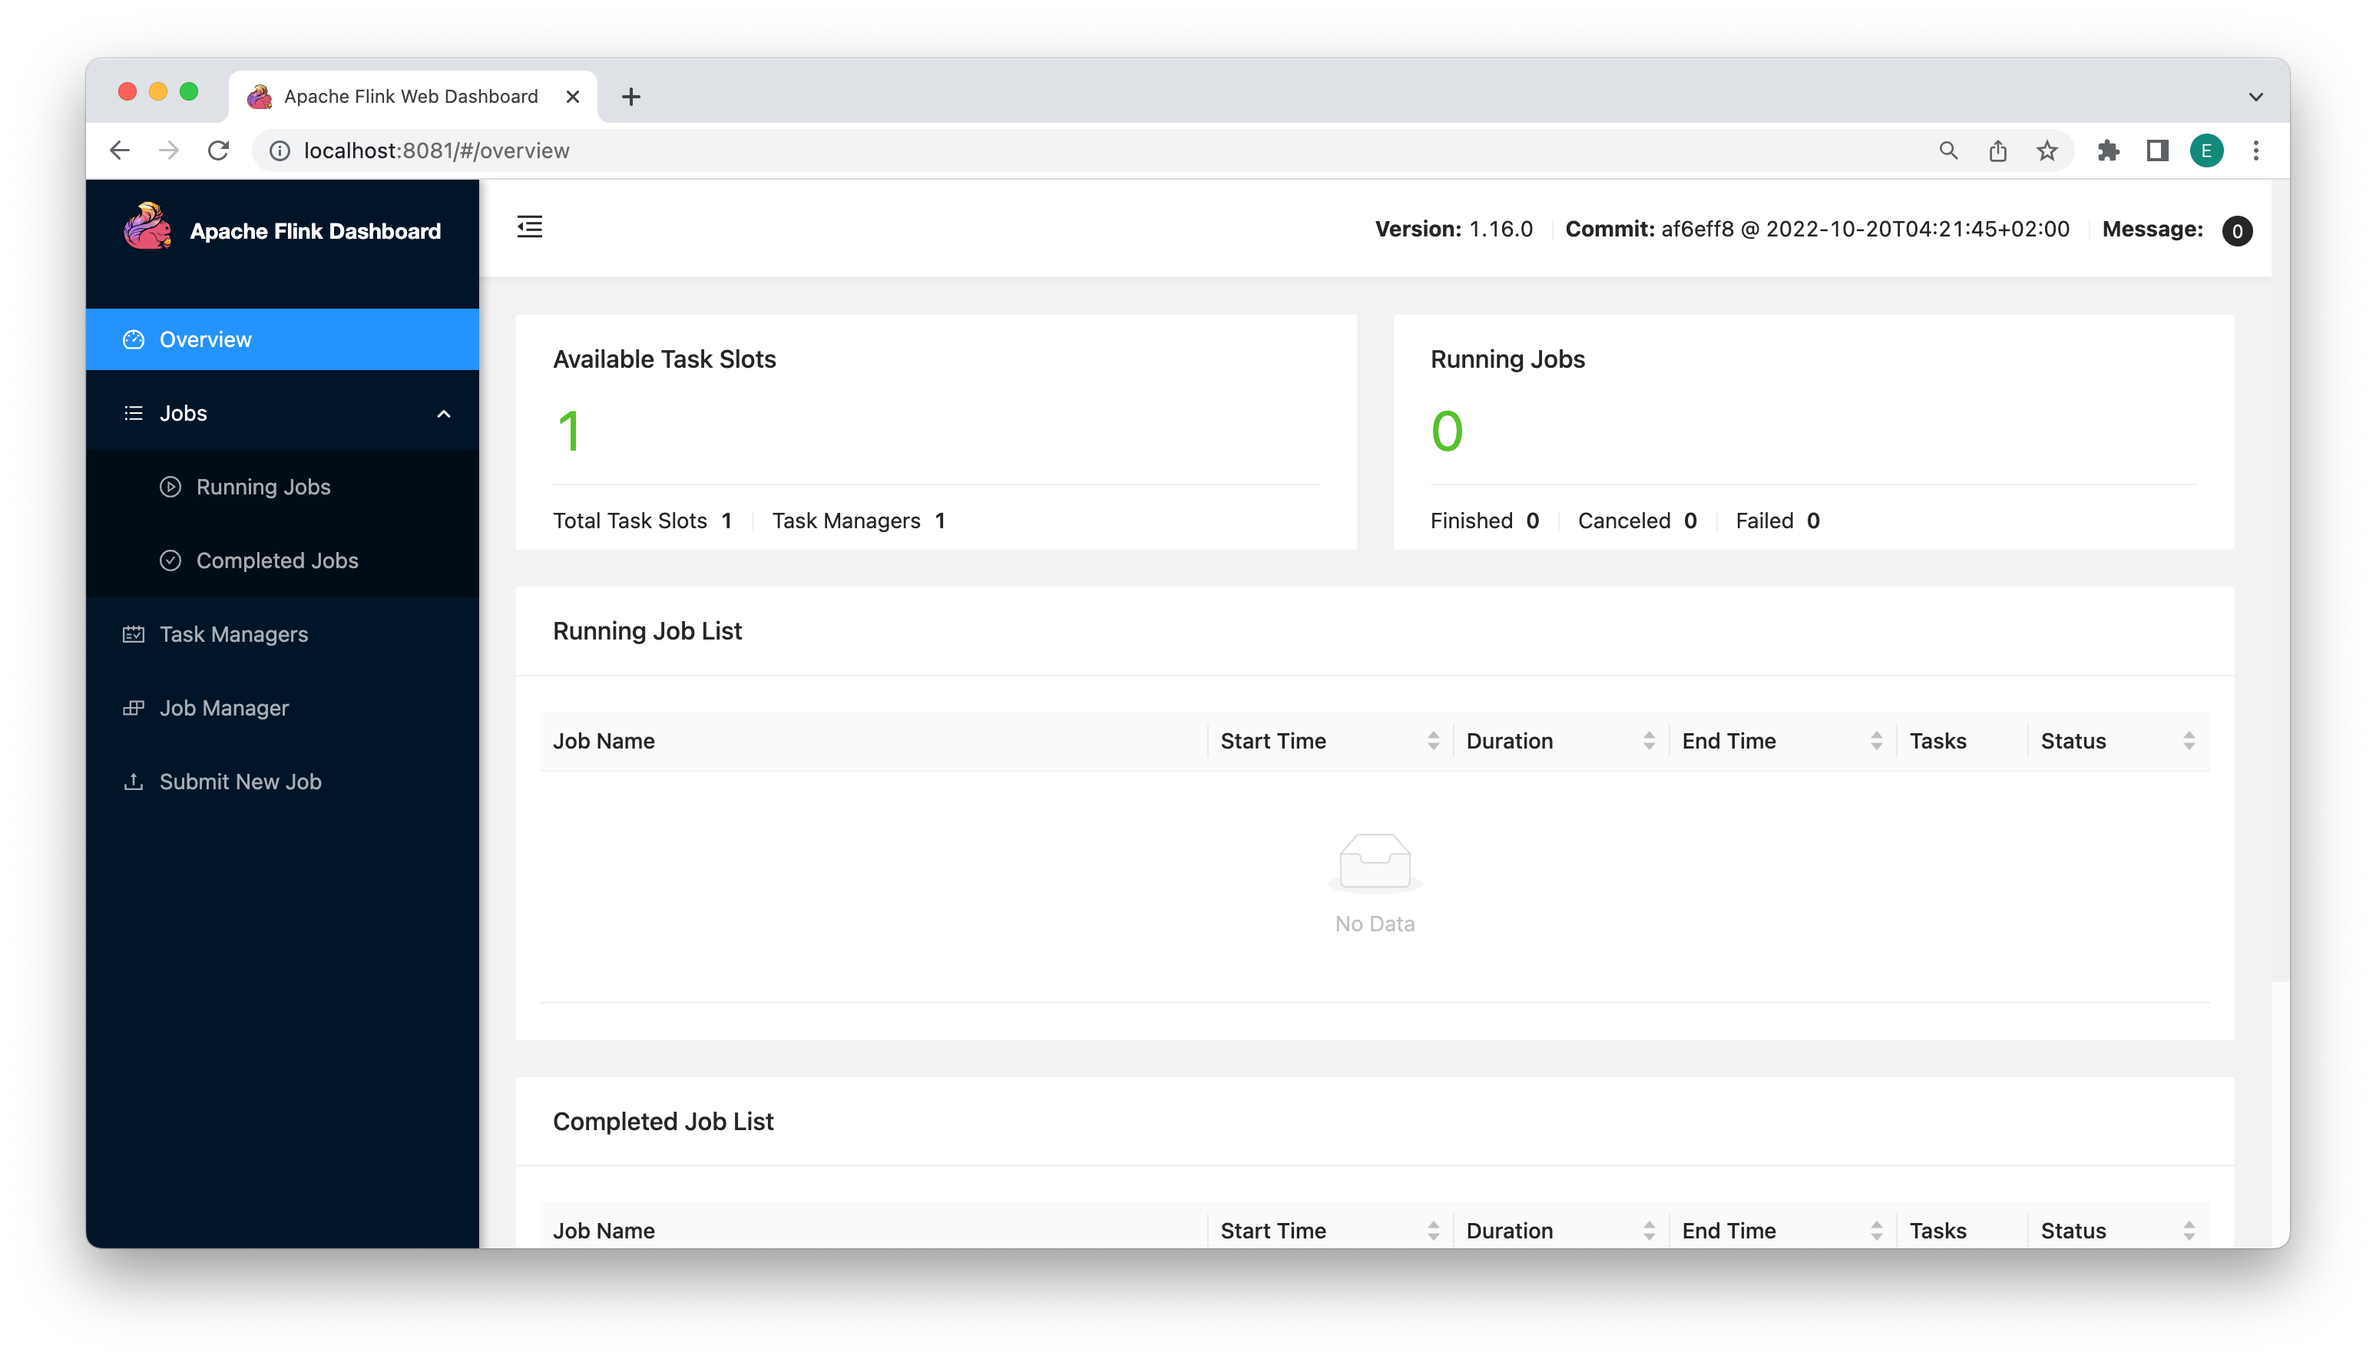
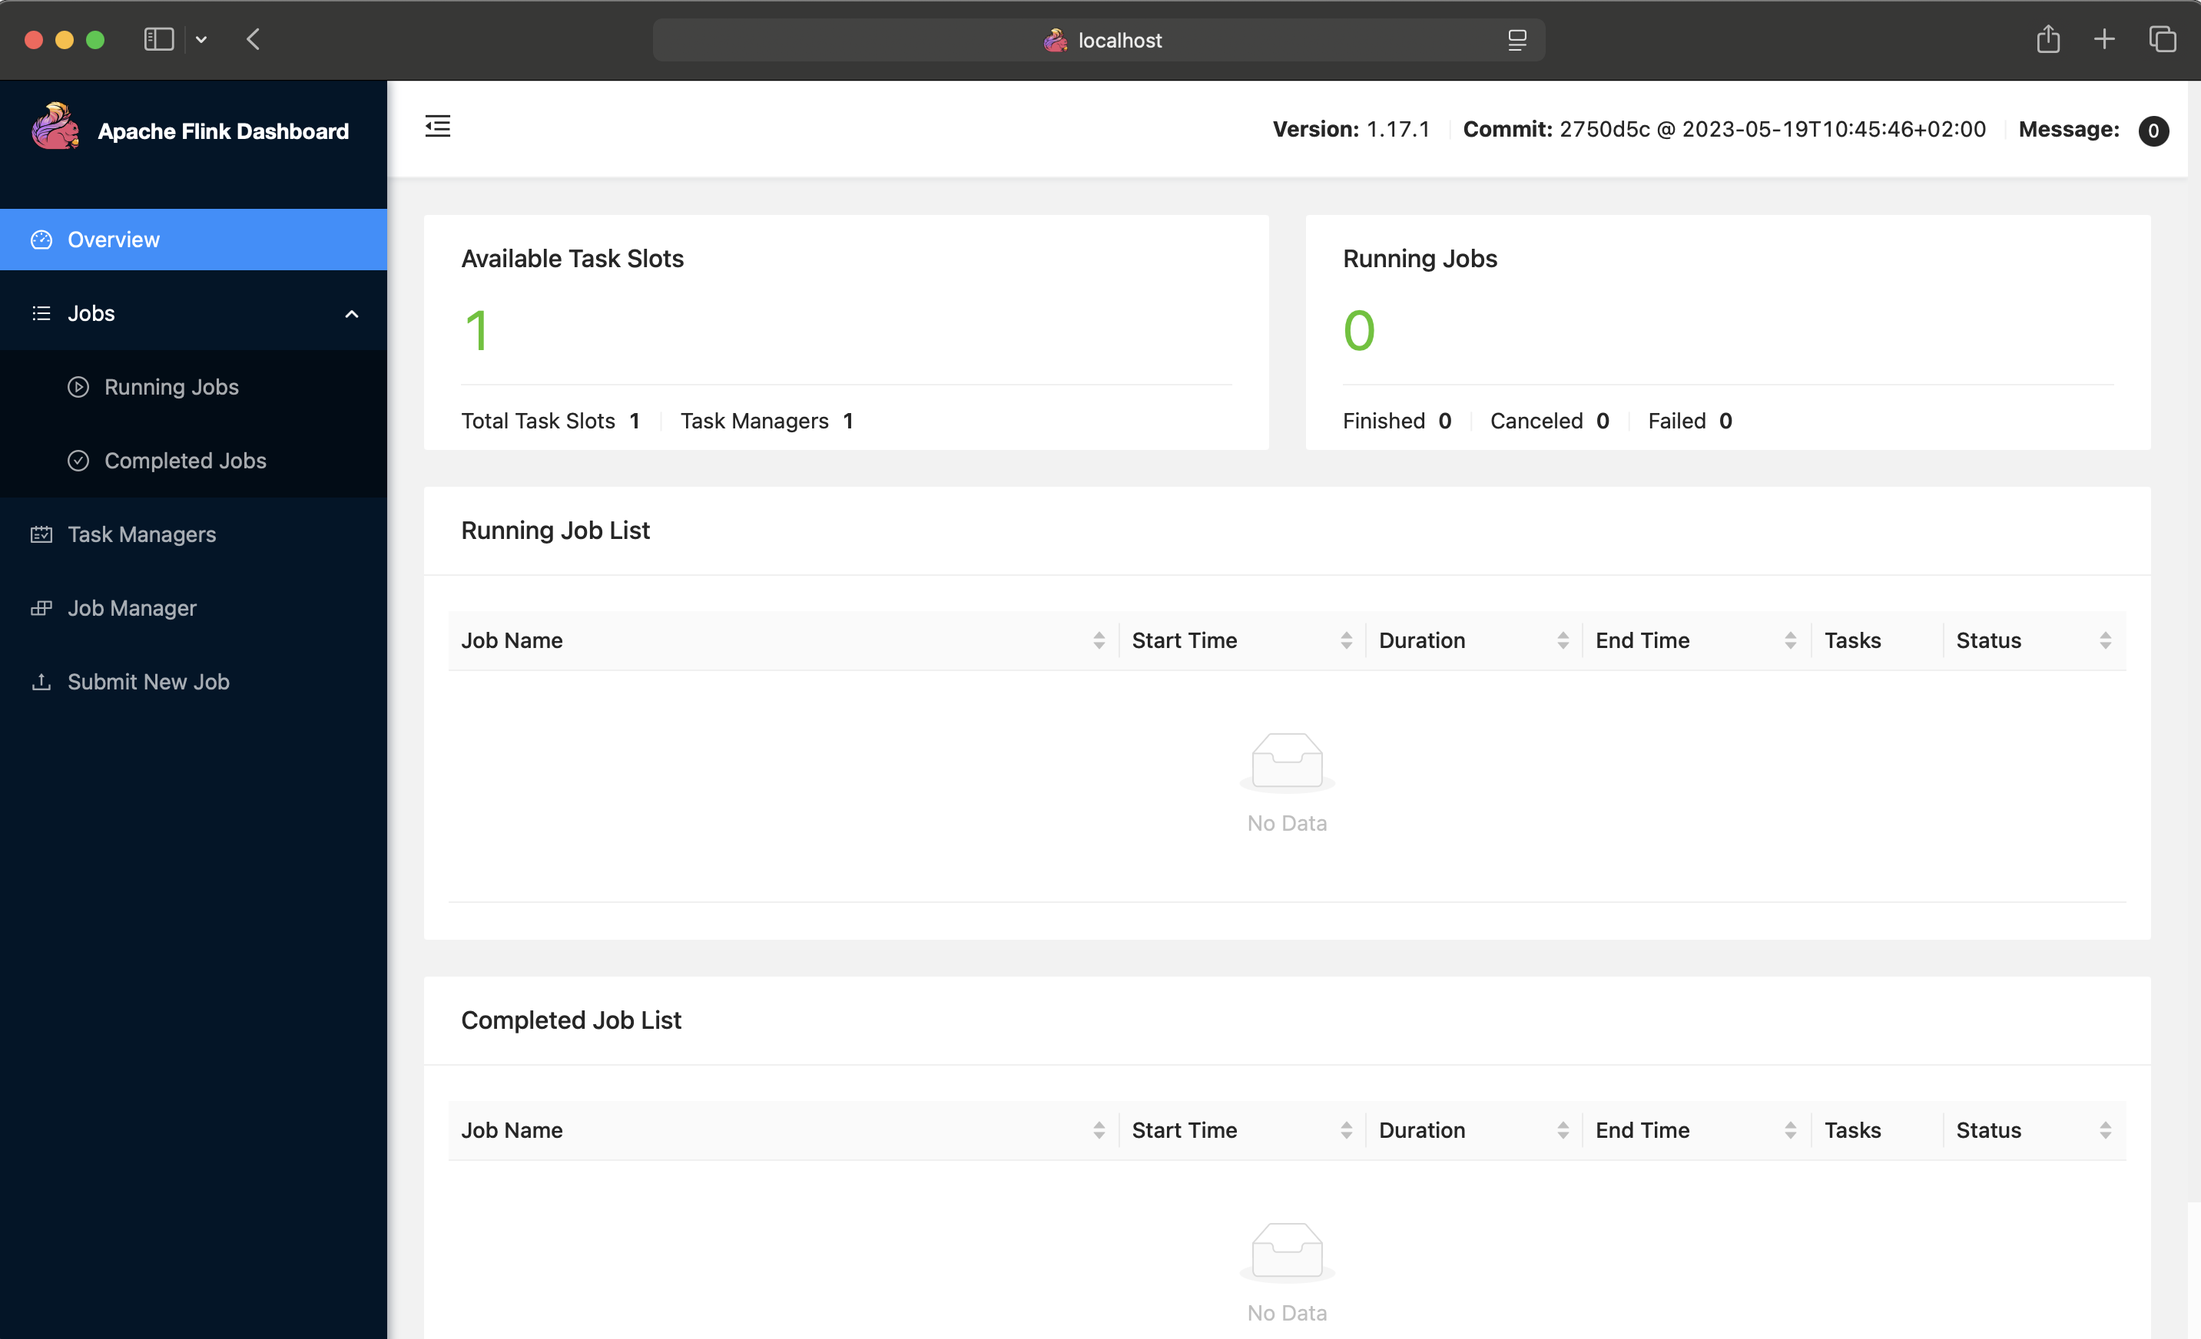
Migrating from MySQL with Flink CDC

diff --git a/docs/en/tutorials/migrate/migrating-from-mysql-with-flink-cdc.md b/docs/en/tutorials/migrate/migrating-from-mysql-with-flink-cdc.md
@@ -2,15 +2,99 @@
 title: Migrating from MySQL with Flink CDC
 ---
 
-In this tutorial, you will set up a real-time data loading from MySQL to Databend with the Flink SQL connector for Databend. Before you start, make sure you have successfully set up Databend and MySQL in your environment.
+In this tutorial, we'll walk you through the process of migrating from MySQL to Databend Cloud using Apache Flink CDC.
 
-1. Create a table in MySQL and populate it with sample data. Then, create a corresponding target table in Databend.
+## Before You Start
 
-```sql title='In MySQL:'
-CREATE DATABASE mydb;
-USE mydb;
+Before you start, ensure you have the following prerequisites in place:
 
+- [Docker](https://www.docker.com/) is installed on your local machine, as it will be used to launch MySQL.
+- [Java 8 or 11](https://www.java.com/) is installed on your local machine, as it is required by the [Flink Databend Connector](https://github.com/databendcloud/flink-connector-databend).
+- BendSQL is installed on your local machine. See [Installing BendSQL](/guides/sql-clients/bendsql/#installing-bendsql) for instructions on how to install BendSQL using various package managers.
+
+## Step 1: Launch MySQL in Docker
+
+1. Create a configuration file named **mysql.cnf** with the following content, and save this file in a local directory that will be mapped to the MySQL container, e.g., `/Users/eric/Downloads/mysql.cnf`:
+
+```cnf
+[mysqld]
+# Basic settings
+server-id=1
+log-bin=mysql-bin
+binlog_format=ROW
+binlog_row_image=FULL
+expire_logs_days=3
+
+# Character set settings
+character_set_server=utf8mb4
+collation-server=utf8mb4_unicode_ci
+
+# Authentication settings
+default-authentication-plugin=mysql_native_password
+```
+
+2. Start a MySQL container on your local machine. The command below launches a MySQL container named **mysql-server**, creates a database named **mydb**, and sets the root password to `root`:
+
+```bash
+docker run \
+  --platform linux/amd64 \
+  --name mysql-server \
+  -v /Users/eric/Downloads/mysql.cnf:/etc/mysql/conf.d/custom.cnf \
+  -e MYSQL_ROOT_PASSWORD=root \
+  -e MYSQL_DATABASE=mydb \
+  -e MYSQL_ROOT_HOST=% \
+  -p 3306:3306 \
+  -d mysql:5.7
+```
+
+3. Verify MySQL is running:
+
+```bash
+docker ps
+```
+
+Check the output for a container named **mysql-server**:
+
+```bash 
+CONTAINER ID   IMAGE       COMMAND                  CREATED        STATUS        PORTS                               NAMES
+aac4c28be56e   mysql:5.7   "docker-entrypoint.s…"   17 hours ago   Up 17 hours   0.0.0.0:3306->3306/tcp, 33060/tcp   mysql-server
+```
+
+## Step 2: Populate MySQL with Sample Data
+
+1. Log in to the MySQL container and enter the password `root` when prompted:
+
+```bash
+docker exec -it mysql-server mysql -u root -p
+```
+
+```
+Enter password:
+Welcome to the MySQL monitor.  Commands end with ; or \g.
+Your MySQL connection id is 71
+Server version: 5.7.44-log MySQL Community Server (GPL)
+
+Copyright (c) 2000, 2023, Oracle and/or its affiliates.
+
+Oracle is a registered trademark of Oracle Corporation and/or its
+affiliates. Other names may be trademarks of their respective
+owners.
+
+Type 'help;' or '\h' for help. Type '\c' to clear the current input statement.
+```
+
+2. Switch to the **mydb** database:
+
+```bash
+mysql> USE mydb;
+Database changed
+```
+
+3. Copy and paste the following SQL to create a table named **products** and insert data:
+
+```sql
 CREATE TABLE products (id INTEGER NOT NULL AUTO_INCREMENT PRIMARY KEY,name VARCHAR(255) NOT NULL,description VARCHAR(512));
+
 ALTER TABLE products AUTO_INCREMENT = 10;
 
 INSERT INTO products VALUES (default,"scooter","Small 2-wheel scooter"),
@@ -25,18 +109,68 @@ INSERT INTO products VALUES (default,"scooter","Small 2-wheel scooter"),
 (default,"spare tire","24 inch spare tire");
 ```
 
-```sql title='In Databend:'
-CREATE TABLE products (id INT NOT NULL, name VARCHAR(255) NOT NULL, description VARCHAR(512) );
+4. Verify the data:
+
+```bash
+mysql> select * from products;
++----+--------------------+---------------------------------------------------------+
+| id | name               | description                                             |
++----+--------------------+---------------------------------------------------------+
+| 10 | scooter            | Small 2-wheel scooter                                   |
+| 11 | car battery        | 12V car battery                                         |
+| 12 | 12-pack drill bits | 12-pack of drill bits with sizes ranging from #40 to #3 |
+| 13 | hammer             | 12oz carpenter's hammer                                 |
+| 14 | hammer             | 14oz carpenter's hammer                                 |
+| 15 | hammer             | 16oz carpenter's hammer                                 |
+| 16 | rocks              | box of assorted rocks                                   |
+| 17 | jacket             | black wind breaker                                      |
+| 18 | cloud              | test for databend                                       |
+| 19 | spare tire         | 24 inch spare tire                                      |
++----+--------------------+---------------------------------------------------------+
+10 rows in set (0.01 sec)
 ```
 
-2. Download [Flink](https://flink.apache.org/downloads/) and the following SQL connectors to your system:
-   - Flink SQL connector for Databend: [https://github.com/databendcloud/flink-connector-databend/releases](https://github.com/databendcloud/flink-connector-databend/releases)
-   - Flink SQL connector for MySQL: [https://repo1.maven.org/maven2/com/ververica/flink-sql-connector-mysql-cdc/2.3.0/flink-sql-connector-mysql-cdc-2.3.0.jar](https://repo1.maven.org/maven2/com/ververica/flink-sql-connector-mysql-cdc/2.3.0/flink-sql-connector-mysql-cdc-2.3.0.jar)
-3. Move the both connector JAR files to the _lib_ folder in your Flink installation directory.
-4. Start Flink:
+## Step 3: Set Up Target in Databend Cloud
+
+1. Connect to Databend Cloud using BendSQL. If you're unfamiliar with BendSQL, refer to this tutorial: [Connecting to Databend Cloud using BendSQL](../connect/connect-to-databendcloud-bendsql.md).
+
+2. Copy and paste the following SQL to create a target table named **products**:
+
+```sql
+CREATE    TABLE products (
+          id INT NOT NULL,
+          name VARCHAR(255) NOT NULL,
+          description VARCHAR(512)
+          );
+```
+
+## Step 4: Install Flink CDC
+
+1. Download and extract Flink 1.17.1:
+
+```bash
+curl -O https://archive.apache.org/dist/flink/flink-1.17.1/flink-1.17.1-bin-scala_2.12.tgz
+tar -xvzf flink-1.17.1-bin-scala_2.12.tgz
+cd flink-1.17.1
+```
+
+2. Download the Databend and MySQL connectors into the **lib** folder:
+
+```bash
+curl -Lo lib/flink-connector-databend.jar https://github.com/databendcloud/flink-connector-databend/releases/latest/download/flink-connector-databend.jar
+
+curl -Lo lib/flink-sql-connector-mysql-cdc-2.4.1.jar https://repo1.maven.org/maven2/com/ververica/flink-sql-connector-mysql-cdc/2.4.1/flink-sql-connector-mysql-cdc-2.4.1.jar
+```
+
+3. Open the file **flink-conf.yaml** under `flink-1.17.1/conf/`, update `taskmanager.memory.process.size` to `4096m`, and save the file.
+
+```yaml
+taskmanager.memory.process.size: 4096m
+```
+
+4. Start a Flink cluster:
 
 ```shell
-cd flink-16.0
 ./bin/start-cluster.sh
 ```
 
@@ -44,10 +178,17 @@ You can now open the Apache Flink Dashboard if you go to [http://localhost:8081]
 
 ![Alt text](/img/load/cdc-dashboard.png)
 
-5. Start the Flink SQL Client:
+## Step 5: Start Migration
 
-```shell
+1. Start the Flink SQL Client:
+
+```bash
 ./bin/sql-client.sh
+```
+
+You will see the Flink SQL Client startup banner, confirming that the client has launched successfully.
+
+```bash
 
                                    ▒▓██▓██▒
                                ▓████▒▒█▓▒▓███▓▒
@@ -92,49 +233,98 @@ You can now open the Apache Flink Dashboard if you go to [http://localhost:8081]
         Welcome! Enter 'HELP;' to list all available commands. 'QUIT;' to exit.
 ```
 
-6. Set the checkpointing interval to 3 seconds, and create corresponding tables with MySQL and Databend connectors in the Flink SQL Client. For the available connection parameters, see [https://github.com/databendcloud/flink-connector-databend#connector-options](https://github.com/databendcloud/flink-connector-databend#connector-options):
+2. Set the checkpointing interval to 3 seconds.
+
+```bash
+Flink SQL> SET execution.checkpointing.interval = 3s;
+```
+
+3. Create corresponding tables with MySQL and Databend connectors in the Flink SQL Client (replace the placeholders with your actual values):
 
 ```sql
-Flink SQL> SET execution.checkpointing.interval = 3s;
-[INFO] Session property has been set.
-
-Flink SQL> CREATE TABLE mysql_products (id INT,name STRING,description STRING,PRIMARY KEY (id) NOT ENFORCED)
+CREATE TABLE mysql_products (id INT,name STRING,description STRING,PRIMARY KEY (id) NOT ENFORCED)
 WITH ('connector' = 'mysql-cdc',
-'hostname' = 'localhost',
+'hostname' = '127.0.0.1',
 'port' = '3306',
 'username' = 'root',
-'password' = '123456',
+'password' = 'root',
 'database-name' = 'mydb',
 'table-name' = 'products',
 'server-time-zone' = 'UTC'
 );
-[INFO] Execute statement succeed.
 
-Flink SQL> CREATE TABLE databend_products (id INT,name String,description String, PRIMARY KEY (`id`) NOT ENFORCED)
+CREATE TABLE databend_products (id INT,name String,description String, PRIMARY KEY (`id`) NOT ENFORCED)
 WITH ('connector' = 'databend',
-'url'='databend://localhost:8000',
-'username'='databend',
-'password'='databend',
-'database-name'='default',
+'url'='databend://cloudapp:{password}@{host}:443/{database}?warehouse={warehouse_name}&ssl=true',
+'database-name'='{database}',
 'table-name'='products',
-'sink.batch-size' = '5',
+'sink.batch-size' = '1',
 'sink.flush-interval' = '1000',
 'sink.ignore-delete' = 'false',
 'sink.max-retries' = '3');
-[INFO] Execute statement succeed.
 ```
 
-7. In the Flink SQL Client, synchronize the data from the _mysql_products_ table to the _databend_products_ table:
+4. In the Flink SQL Client, synchronize the data from the mysql_products table to the databend_products table:
 
 ```sql
 Flink SQL> INSERT INTO databend_products SELECT * FROM mysql_products;
+>
 [INFO] Submitting SQL update statement to the cluster...
 [INFO] SQL update statement has been successfully submitted to the cluster:
-Job ID: b14645f34937c7cf3672ffba35733734
+Job ID: 5b505d752b7c211cbdcb5566175b9182
 ```
 
 You can now see a running job in the Apache Flink Dashboard:
 
 ![Alt text](/img/load/cdc-job.png)
 
-You're all set! If you query the _products_ table in Databend, you will see that the data from MySQL has been successfully synchronized. Feel free to perform insertions, updates, or deletions in MySQL, and you will observe the corresponding changes reflected in Databend as well.
+You're all set! If you go back to the BendSQL terminal and query the **products** table in Databend Cloud, you will see that the data from MySQL has been successfully synchronized:
+
+```sql
+SELECT * FROM products;
+
+┌──────────────────────────────────────────────────────────────────────────────────────┐
+│   id  │        name        │                       description                       │
+│ Int32 │       String       │                     Nullable(String)                    │
+├───────┼────────────────────┼─────────────────────────────────────────────────────────┤
+│    18 │ cloud              │ test for databend                                       │
+│    19 │ spare tire         │ 24 inch spare tire                                      │
+│    16 │ rocks              │ box of assorted rocks                                   │
+│    17 │ jacket             │ black wind breaker                                      │
+│    14 │ hammer             │ 14oz carpenter's hammer                                 │
+│    15 │ hammer             │ 16oz carpenter's hammer                                 │
+│    12 │ 12-pack drill bits │ 12-pack of drill bits with sizes ranging from #40 to #3 │
+│    13 │ hammer             │ 12oz carpenter's hammer                                 │
+│    10 │ scooter            │ Small 2-wheel scooter                                   │
+│    11 │ car battery        │ 12V car battery                                         │
+└──────────────────────────────────────────────────────────────────────────────────────┘
+```
+
+5. Return to the MySQL terminal and insert a new product:
+
+```sql
+INSERT INTO products VALUES (default, "bicycle", "Lightweight road bicycle");
+```
+
+Next, in the BendSQL terminal, query the **products** table again to verify the new product has been synced:
+
+```sql
+SELECT * FROM products;
+
+┌──────────────────────────────────────────────────────────────────────────────────────┐
+│   id  │        name        │                       description                       │
+│ Int32 │       String       │                     Nullable(String)                    │
+├───────┼────────────────────┼─────────────────────────────────────────────────────────┤
+│    12 │ 12-pack drill bits │ 12-pack of drill bits with sizes ranging from #40 to #3 │
+│    11 │ car battery        │ 12V car battery                                         │
+│    14 │ hammer             │ 14oz carpenter's hammer                                 │
+│    13 │ hammer             │ 12oz carpenter's hammer                                 │
+│    10 │ scooter            │ Small 2-wheel scooter                                   │
+│    20 │ bicycle            │ Lightweight road bicycle                                │
+│    19 │ spare tire         │ 24 inch spare tire                                      │
+│    16 │ rocks              │ box of assorted rocks                                   │
+│    15 │ hammer             │ 16oz carpenter's hammer                                 │
+│    18 │ cloud              │ test for databend                                       │
+│    17 │ jacket             │ black wind breaker                                      │
+└──────────────────────────────────────────────────────────────────────────────────────┘
+```
